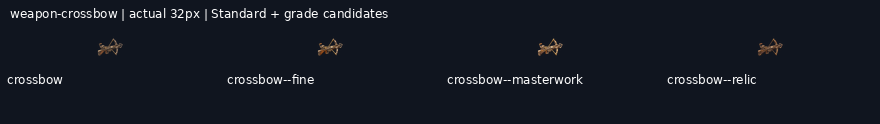
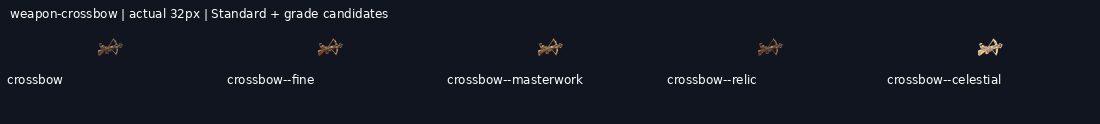
Deliver weapon-crossbow--celestial review candidate with native provenance and exports

diff --git a/art/_archive/gear/2026-11-21-retry-continuation/HANDOFF.md b/art/_archive/gear/2026-11-21-retry-continuation/HANDOFF.md
@@ -1,13 +1,13 @@
 # Reset continuation progress
 
-Branch: `art/2026-11-20-reset-continuation`. New deliveries: 42/50.
+Branch: `art/2026-11-20-reset-continuation`. New deliveries: 43/50.
 
 Shared coordination: https://github.com/leonpentastorm/Project-Heaven-Cry/issues/3 . Read START-HERE.md before extending this queue.
 
 All new entries remain review-candidate; production_approved:false and implementation_ready:false. Exact-outline review remains pending.
 
-Ready jobs: weapon-purifier_flamer--masterwork, weapon-short_bow--fine, weapon-crossbow--celestial.
+Ready jobs: weapon-purifier_flamer--masterwork, weapon-short_bow--fine.
 
-Pending jobs: weapon-purifier_flamer--masterwork, weapon-purifier_flamer--relic, weapon-purifier_flamer--celestial, weapon-short_bow--fine, weapon-short_bow--masterwork, weapon-short_bow--relic, weapon-short_bow--celestial, weapon-crossbow--celestial.
+Pending jobs: weapon-purifier_flamer--masterwork, weapon-purifier_flamer--relic, weapon-purifier_flamer--celestial, weapon-short_bow--fine, weapon-short_bow--masterwork, weapon-short_bow--relic, weapon-short_bow--celestial.
 
 Quota state: null.

diff --git a/art/briefs/prompts-2026-11-19/PRODUCTION-STATUS.md b/art/briefs/prompts-2026-11-19/PRODUCTION-STATUS.md
@@ -1,12 +1,12 @@
 # Current sole-artist production
 
-**555/871 (63.7%) selected review candidates.** Last delivery: `weapon-repeating_crossbow--celestial`. Imports, exports, components, rejected attempts and archived alternatives add0. Artistic/implementation approvals remainfalse.
+**556/871 (63.8%) selected review candidates.** Last delivery: `weapon-crossbow--celestial`. Imports, exports, components, rejected attempts and archived alternatives add0. Artistic/implementation approvals remainfalse.
 
 | Requested work | Selected | Total |
 | --- | ---: | ---: |
 | icons_tiles | 88 | 88 |
 | new_repaint_standards | 53 | 104 |
-| grades | 400 | 656 |
+| grades | 401 | 656 |
 | uniques | 14 | 23 |
 
 Active run sole-20261121-0109, branch art/2026-11-20-reset-continuation. Shared live ledger: https://github.com/leonpentastorm/Project-Heaven-Cry/issues/3 . Current renewed grade lane: art/_archive/gear/2026-11-21-retry-continuation/START-HERE.md. All earlier512 candidate drawings were integrated before this lane; native bytes, cleaned imports, source metadata and all prior failures preserved.

diff --git a/art/_archive/gear/2026-11-20-reset-continuation/START-HERE.md b/art/_archive/gear/2026-11-20-reset-continuation/START-HERE.md
@@ -1,6 +1,6 @@
 # Current21November continuation
 
-555/871 selected. Active lane art/_archive/gear/2026-11-21-retry-continuation/START-HERE.md, run sole-20261121-0109. User explicitly authorized renewed fictional-art attempts; all priorart/errors preserved. Read liveissue3+allcomments and remote deliveries before everyrender. RunningScript completed with original marks unchanged. All approvalsfalse;0.30 holdsremain. See PRODUCTION-STATUS.md and REMAINING-WORK.json for the latest exact count.
+556/871 selected. Active lane art/_archive/gear/2026-11-21-retry-continuation/START-HERE.md, run sole-20261121-0109. User explicitly authorized renewed fictional-art attempts; all priorart/errors preserved. Read liveissue3+allcomments and remote deliveries before everyrender. RunningScript completed with original marks unchanged. All approvalsfalse;0.30 holdsremain. See PRODUCTION-STATUS.md and REMAINING-WORK.json for the latest exact count.
 
 # Historical20November handoff
 
